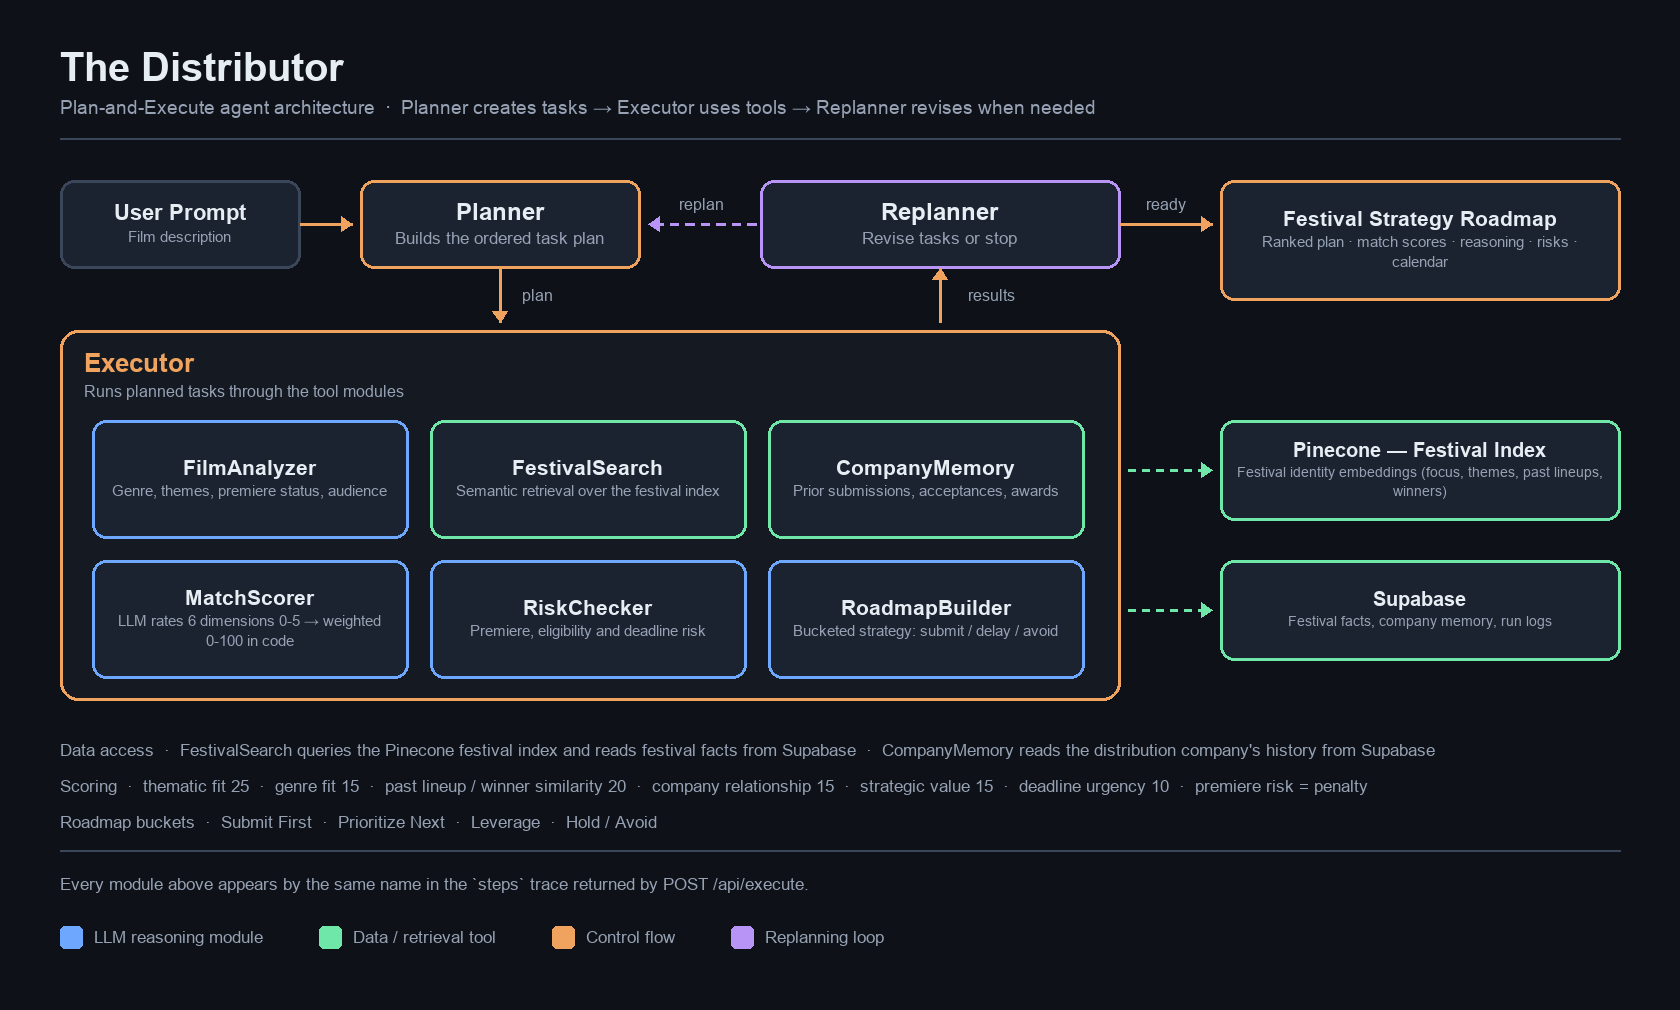
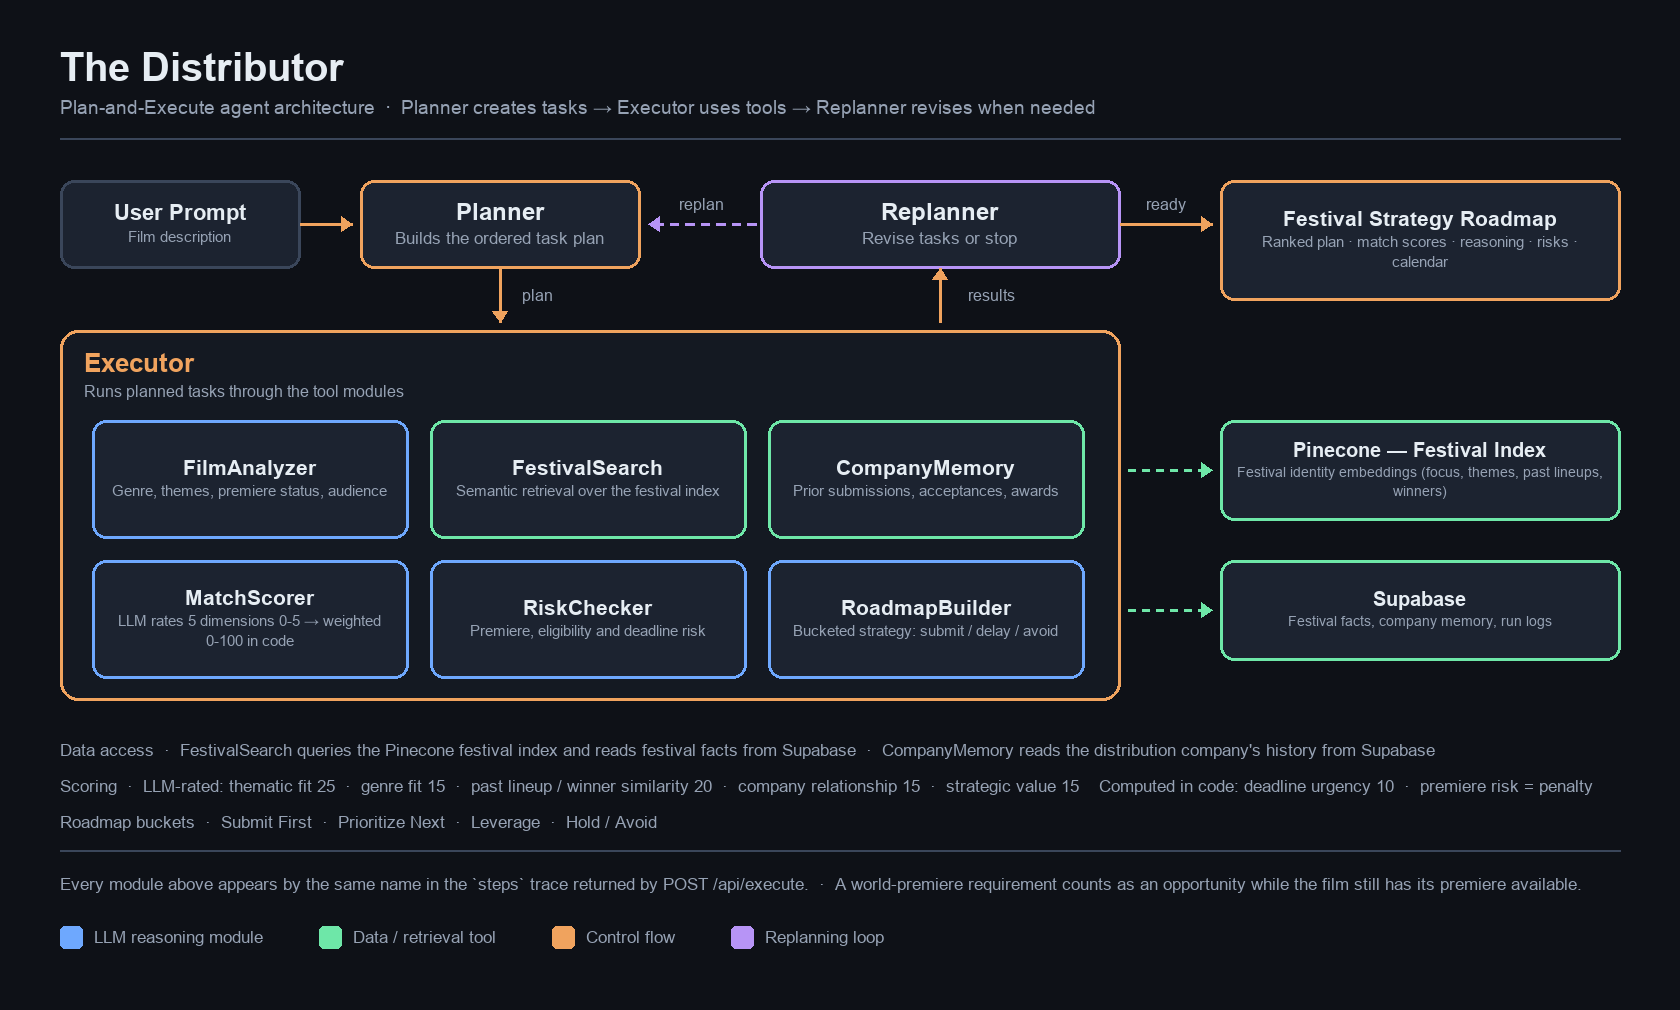
Correct the architecture diagram after the scoring change
The diagram still claimed the model rates six dimensions; deadline urgency has
been computed in code since the scoring fix, so it now separates the five
LLM-rated dimensions from the two computed ones and notes that a world-premiere
requirement is an opportunity while the premiere is still available.

Changed region(s): [[0.0929, 0.7673, 0.9595, 0.798], [0.4952, 0.8594, 0.9286, 0.8901]]

diff --git a/scripts/make_architecture.py b/scripts/make_architecture.py
@@ -135,7 +135,7 @@ def main() -> None:
         ("FilmAnalyzer", "Genre, themes, premiere status, audience", BLUE),
         ("FestivalSearch", "Semantic retrieval over the festival index", GREEN),
         ("CompanyMemory", "Prior submissions, acceptances, awards", GREEN),
-        ("MatchScorer", "LLM rates 6 dimensions 0-5 → weighted 0-100 in code", BLUE),
+        ("MatchScorer", "LLM rates 5 dimensions 0-5 → weighted 0-100 in code", BLUE),
         ("RiskChecker", "Premiere, eligibility and deadline risk", BLUE),
         ("RoadmapBuilder", "Bucketed strategy: submit / delay / avoid", BLUE),
     ]
@@ -166,7 +166,7 @@ def main() -> None:
     )
     draw.text(
         (60, 776),
-        "Scoring  ·  thematic fit 25  ·  genre fit 15  ·  past lineup / winner similarity 20  ·  company relationship 15  ·  strategic value 15  ·  deadline urgency 10  ·  premiere risk = penalty",
+        "Scoring  ·  LLM-rated: thematic fit 25  ·  genre fit 15  ·  past lineup / winner similarity 20  ·  company relationship 15  ·  strategic value 15    Computed in code: deadline urgency 10  ·  premiere risk = penalty",
         font=font(17), fill=MUTED,
     )
     draw.text(
@@ -177,7 +177,7 @@ def main() -> None:
     draw.line([60, 850, W - 60, 850], fill=LINE, width=2)
     draw.text(
         (60, 874),
-        "Every module above appears by the same name in the `steps` trace returned by POST /api/execute.",
+        "Every module above appears by the same name in the `steps` trace returned by POST /api/execute.  ·  A world-premiere requirement counts as an opportunity while the film still has its premiere available.",
         font=font(17), fill=MUTED,
     )
 
